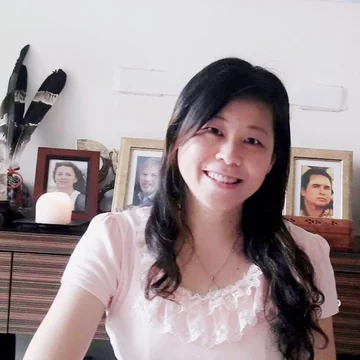
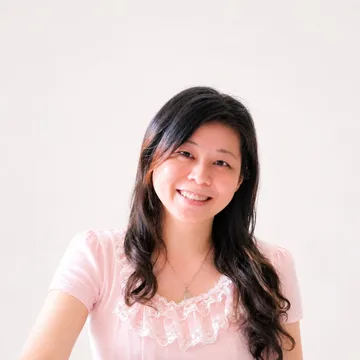
首頁圓形大頭照換新照片（含肩身、去背景）

diff --git a/index.html b/index.html
@@ -403,7 +403,7 @@ ul{list-style:none}
 <div class="banner" id="top"><img src="assets/banner-1920.webp" srcset="assets/banner-960.webp 960w, assets/banner-1920.webp 1920w" sizes="100vw" width="1920" height="683" alt="Shemaya 在山中湖畔" fetchpriority="high"></div>
 
 <section class="intro" aria-labelledby="introTitle">
-  <img class="intro-ph" src="assets/intro-face.webp" width="360" height="360" alt="Shemaya">
+  <img class="intro-ph" src="assets/intro-face.webp?v=20261111" width="360" height="360" alt="Shemaya">
   <h2 class="intro-t" id="introTitle">嗨！我是Shemaya</h2>
   <p class="intro-p"><span class="ln"><span>累積 13 年以上深厚教學與個案經驗，</span><span>見證無數人破繭重生</span></span><span class="ln"><span>擅長靈性諮詢，</span><span>引領靈性覺醒，</span><span>提供專業能量教學與服務</span></span></p>
   <p class="intro-p intro-gap"><span class="ln"><span>專注陪伴 35+ 朋友</span></span><span class="ln"><span>找回光與生命主權</span></span><span class="ln"><span>穿越束縛，</span><span>轉化阻礙</span></span><span class="ln"><span>靈性落地，</span><span>活出天賦</span></span></p>
